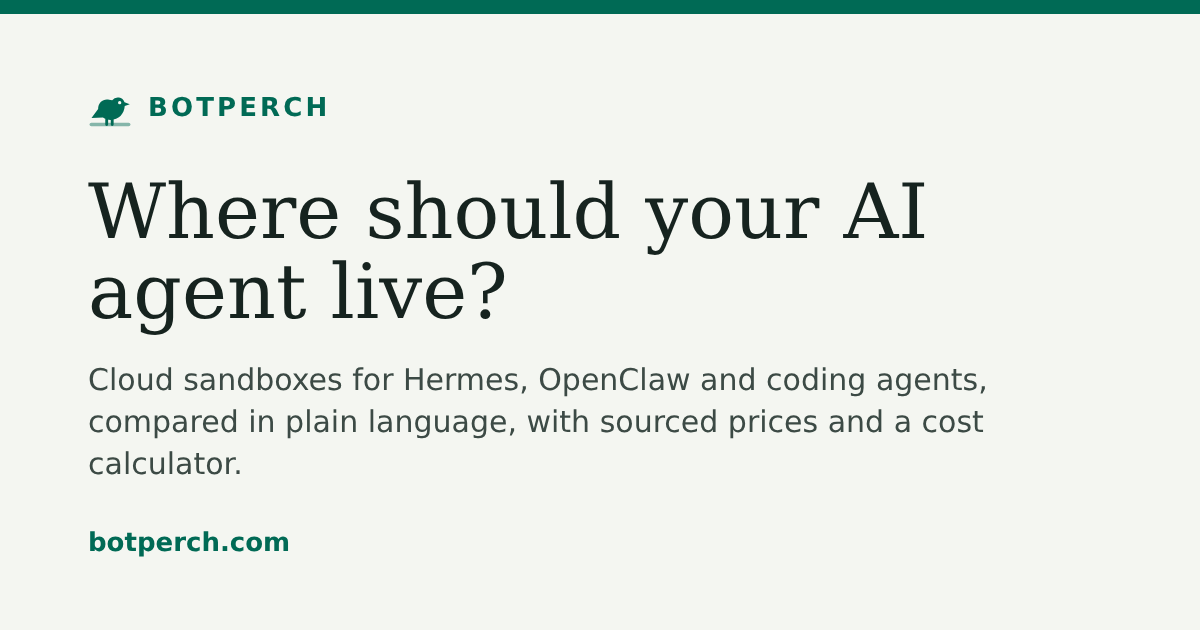
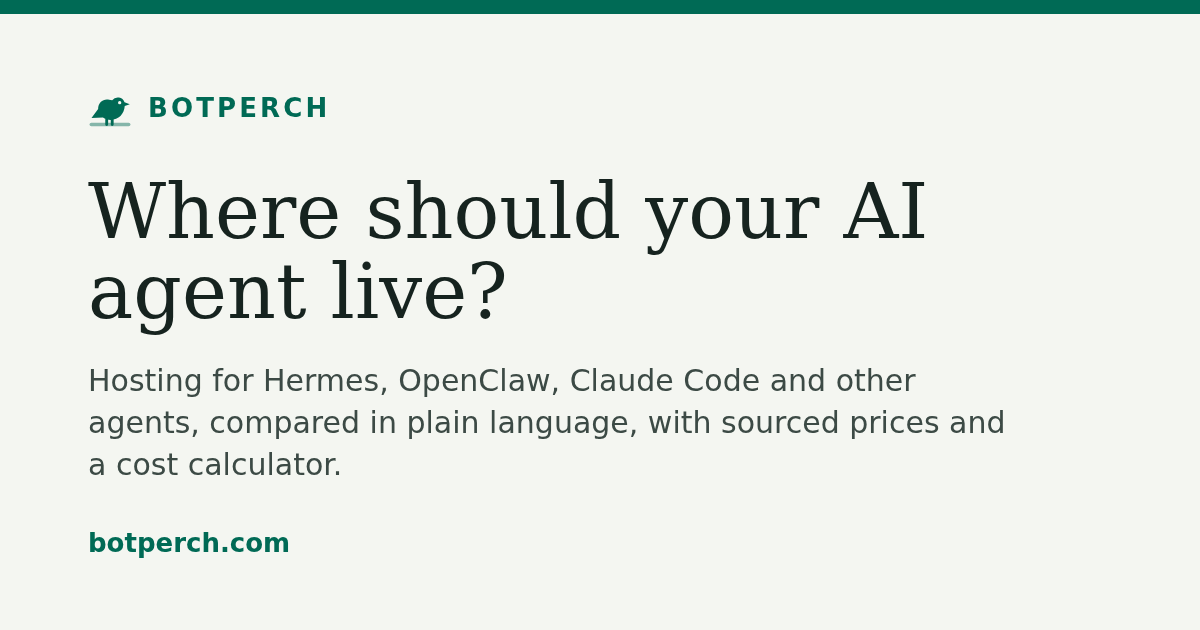
Reframe the guide as agent hosting; short answers carry the model estimate
The site description, home standfirst, About and share card now speak of where
an agent lives (sandbox, VM or server), not only cloud sandboxes. Use-case and
provider short answers, their Markdown twins and rankings.md add the same model
estimate the calculator uses (models.json median, cheapest host when lower).

diff --git a/site/src/lib/agents.ts b/site/src/lib/agents.ts
@@ -16,7 +16,8 @@ import {
   providers,
   useCases,
 } from "./data";
-import { formatMoney, presets, price } from "./cost";
+import { formatMoney, modelCost, presets, price, type ModelPrice } from "./cost";
+import modelData from "../data/models.json";
 import type { Capability, Provider, UseCase } from "../data/schema";
 
 export const base = (import.meta.env.SITE as string).replace(/\/$/, "");
@@ -86,9 +87,18 @@ const ordinal = (n: number) => `${n}${n % 10 === 1 && n !== 11 ? "st" : n % 10 =
 export function useCaseAnswer(u: UseCase): string {
   const all = ranking(u.preset);
   const fit = all.filter((r) => r.fits);
-  if (!fit.length) return `No provider runs it exactly as described; each has a catch, listed under the costs below.`;
+  const ai = modelAnswer(u.preset);
+  if (!fit.length) return `No provider runs it exactly as described; each has a catch, listed under the costs below.${ai ? ` ${ai}` : ""}`;
   const next = fit.slice(1, 3).map((r) => `${r.name} (${formatMoney(r.monthlyUsd)})`);
-  return `The cheapest machine that runs it as described is ${fit[0].name} at ${formatMoney(fit[0].monthlyUsd)} a month${next.length ? `, then ${names(next)}` : ""}. ${fit.length} of ${all.length} providers run it without a catch. Machine cost only, before any AI model, at list prices checked ${formatDate(checked.prices)}.`;
+  return `The cheapest machine that runs it as described is ${fit[0].name} at ${formatMoney(fit[0].monthlyUsd)} a month${next.length ? `, then ${names(next)}` : ""}. ${fit.length} of ${all.length} providers run it without a catch. ${ai ?? "Any AI model is billed separately and not priced here."} List prices checked ${formatDate(checked.prices)}.`;
+}
+
+/** The model estimate the calculator adds for a preset, as one sentence, or null when the preset has no model. */
+export function modelAnswer(preset: string): string | null {
+  const w = presets[preset].workload;
+  const ai = modelCost(w, (modelData as { models: ModelPrice[] }).models);
+  if (!ai) return null;
+  return `The AI model adds about ${formatMoney(ai.median)} a month on top (${ai.model.label}, ${w.messagesPerDay.toLocaleString("en-US")} requests a day at ${w.kTokens.toLocaleString("en-US")}k tokens each, median zero-retention price${ai.lowest < ai.median - 0.005 ? `; from ${formatMoney(ai.lowest)} at the cheapest host` : ""}).`;
 }
 
 /** What one always-on personal agent costs on this provider, and where that ranks. */
@@ -101,7 +111,7 @@ export function providerAnswer(p: Provider): string | undefined {
   const rank = r.fits
     ? `${cost}, the ${((n) => (n === 1 ? "" : `${ordinal(n)} `))(fit.findIndex((x) => x.provider === p.id) + 1)}cheapest of the ${fit.length} providers that run it as described.`
     : `${cost}, with a catch: ${r.problems.join(" ").replace(/\.$/, "")}.`;
-  return `${rank} Fits well: ${p.fits.well[0]}`;
+  return `${rank} ${modelAnswer("personal") ?? ""} Fits well: ${p.fits.well[0]}`.replace(/  +/g, " ");
 }
 
 /** Which providers offer a capability, fully and with a catch. */
@@ -123,7 +133,8 @@ export function rankingsMarkdown(): string {
     `Every provider priced for each preset workload by the guide's cost engine, from list rates checked ${checked.prices}. Illustrations, not quotes: tax, egress and discounts are left out. Providers that cannot run the workload exactly as described are listed after the ones that can, with the reason.`,
   ];
   for (const [id, p] of Object.entries(presets)) {
-    out.push(``, `## ${p.label} (\`${id}\`)`, ``, p.why, ``);
+    const ai = modelAnswer(id);
+    out.push(``, `## ${p.label} (\`${id}\`)`, ``, p.why, ...(ai ? [``, ai] : []), ``);
     ranking(id).forEach((r, i) =>
       out.push(`${i + 1}. ${r.name}: ${formatMoney(r.monthlyUsd)}/month${r.plan ? ` on ${r.plan}` : ""}, ${r.shape}${r.fits ? "" : `. Catch: ${r.problems.join(" ")}`}`),
     );

diff --git a/site/scripts/og.html b/site/scripts/og.html
@@ -11,6 +11,6 @@
 </style></head><body><div class="f">
   <div class="k"><svg width="44" height="44" viewBox="0 0 20 20"><path d="M1.5 17.5h17" stroke="currentColor" stroke-width="1.6" stroke-linecap="round" opacity="0.45"/><path d="M8.5 15.2v2.3M11 15.2v2.3" stroke="currentColor" stroke-width="1.3" stroke-linecap="round"/><path d="M4.6 10.4C4.6 7.4 7 5.6 9.6 6.2l1.4.3a3.2 3.2 0 0 1 5.6.9l2.4.9-2.3.8c-.2 3.6-2.8 6.3-6.4 6.3-1.3 0-2.6-.4-3.5-1.1L1.6 14.6z" fill="currentColor"/><circle cx="14.4" cy="7.6" r=".75" fill="#f4f6f1"/></svg>Botperch</div>
   <div><h1>Where should your AI agent live?</h1>
-  <p style="margin-top:28px">Cloud sandboxes for Hermes, OpenClaw and coding agents, compared in plain language, with sourced prices and a cost calculator.</p></div>
+  <p style="margin-top:28px">Hosting for Hermes, OpenClaw, Claude Code and other agents, compared in plain language, with sourced prices and a cost calculator.</p></div>
   <div class="u">botperch.com</div>
 </div></body></html>
